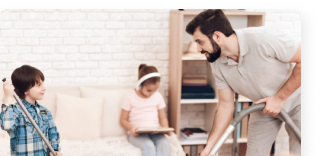
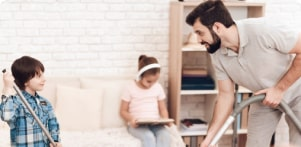
copleted styles for authpage

diff --git a/src/components/authForm/AuthForm.module.css b/src/components/authForm/AuthForm.module.css
@@ -71,131 +71,65 @@
   margin-right: 10px;
 }
 
-@media screen and (min-width: 1180px) {
+@media screen and (min-width: 580px) {
   .container {
+    padding-left: 40px;
+    padding-top: 72px;
+    padding-bottom: 306px;
     display: flex;
-    justify-content: flex-end;
-    align-items: flex-end;
-  }
-  .authTitle {
-    width: 404px;
-    font-weight: 600;
-    font-size: 28px;
-    text-align: start;
+    justify-content: center;
+    align-items: center;
   }
   .row {
-    /* width: 404px; */
-    margin-top: 72px;
-    margin-right: 48px;
+    width: 372px;
   }
-  .authText {
-    text-shadow: 0px 4px 4px rgba(0, 0, 0, 0.25);
+  .authTitle {
+    font-size: 28px;
+    line-height: 1.21;
   }
-
-  .authButton {
-    width: 154px;
-    height: 48px;
-    font-size: 12px;
-  }
-
   .authForm {
-    width: 404px;
-    margin-top: 32px;
+    width: 400px;
     padding: 40px;
     background: #ffffff;
 
     box-shadow: 4px 6px 15px rgba(0, 0, 0, 0.1);
     border-radius: 6px;
   }
+  .formInput {
+    width: 320px;
+    margin-bottom: 20px;
+  }
+  .authButton {
+    width: 154px;
+    height: 48px;
+    font-size: 12px;
+  }
 }
 
-/* .container {
-  display: flex;
-  justify-content: flex-end;
-  align-items: flex-end;
-  width: 100%;
+@media screen and (min-width: 1180px) {
+  .container {
+    display: flex;
+    justify-content: flex-end;
+    align-items: flex-end;
+    padding-bottom: 130px;
+  }
+  .authTitle {
+    font-weight: 600;
+    font-size: 30px;
+    line-height: 1.24;
+    text-align: start;
+
+    text-shadow: 0px 4px 4px rgba(0, 0, 0, 0.25);
+  }
+  .row {
+    width: 398px;
+    margin-right: 48px;
+  }
+  .authText {
+    text-shadow: 0px 4px 4px rgba(0, 0, 0, 0.25);
+  }
+
+  .authForm {
+    width: 404px;
+  }
 }
-
-.row {
-  width: 404px;
-  margin-top: 72px;
-  margin-right: 48px;
-}
-
-.authForm {
-  margin-top: 32px;
-  padding: 40px;
-  background: #ffffff;
-
-  box-shadow: 4px 6px 15px rgba(0, 0, 0, 0.1);
-  border-radius: 6px;
-}
-
-.authText {
-  font-family: Montserrat;
-
-  font-size: 12px;
-  line-height: 15px;
-  letter-spacing: 0.04em;
-
-  color: #858598;
-
-  text-shadow: 0px 4px 4px rgba(0, 0, 0, 0.25);
-  margin-bottom: 20px;
-}
-
-.googleBtn {
-  margin-bottom: 30px;
-}
-
-.formGroup {
-  display: flex;
-  flex-direction: column;
-}
-
-.formInput {
-  width: 320px;
-  margin-bottom: 20px;
-  padding: 12px 10px;
-  background-color: #f6f7fb;
-  border: none;
-  border-top: 2px solid rgba(133, 133, 152, 0.3);
-}
-
-.formLabel {
-  font-family: Montserrat;
-  font-style: normal;
-  font-weight: normal;
-  font-size: 12px;
-  line-height: 15px;
-
-  letter-spacing: 0.04em;
-
-  color: #858598;
-  margin-bottom: 10px;
-}
-
-.wrapperButton {
-  display: flex;
-}
-.authButton {
-  width: 154px;
-  height: 48px;
-
-  font-size: 12px;
-  line-height: 15px;
-  display: flex;
-  align-items: center;
-  text-align: center;
-  letter-spacing: 0.02em;
-
-  color: #fafafa;
-  background: #ffbc33;
-  border-radius: 6px;
-}
-
-.authButton:not(:last-child) {
-  margin-right: 12px;
-}
-.authTitle {
-} */

diff --git a/src/pages/auth/AuthPage.module.css b/src/pages/auth/AuthPage.module.css
@@ -1,4 +1,4 @@
-/* .container {
+.container {
   width: 100%;
   padding-bottom: 156px;
 
@@ -6,34 +6,51 @@
   background-repeat: no-repeat;
   background-size: contain;
   background-position: bottom;
-
-  @media screen and (min-device-pixel-ratio: 2),
-    screen and (min-resolution: 192dpi),
-    screen and (min-resolution: 2dppx) {
+}
+@media screen and (min-device-pixel-ratio: 2),
+  screen and (min-resolution: 192dpi),
+  screen and (min-resolution: 2dppx) {
+  .container {
     background-image: url(./images/bg_1_mobile@2x.jpg);
   }
-  @media screen and (min-width: 580px) {
-    background-image: url(./images/bg_1_mobile@2x.jpg);
+}
 
-    @media screen and (min-device-pixel-ratio: 2),
-      screen and (min-resolution: 192dpi),
-      screen and (min-resolution: 2dppx) {
-      background-image: url(./images/bg_1_mobile@2x.jpg);
-    }
-    @media screen and (min-width: 1180px) {
-      background-image: url(./images/bg_4_desktop@1x.png),
-        url(./images/bg_3_desktop@1x.png), url(./images/bg_2_desktop@1x.png),
-        url(./images/bg_1_desktop@1x.png);
-      background-repeat: no-repeat, no-repeat, no-repeat, no-repeat;
-      background-position: 270px 476px, 50px 348px, 270px 190px, 50px 20px;
-
-      @media screen and (min-device-pixel-ratio: 2),
-        screen and (min-resolution: 192dpi),
-        screen and (min-resolution: 2dppx) {
-        background-image: url(./images/bg_4_desktop@2x.png),
-          url(./images/bg_3_desktop@2x.png), url(./images/bg_2_desktop@2x.png),
-          url(./images/bg_1_desktop@2x.png);
-      }
-    }
+@media screen and (min-width: 580px) {
+  .container {
+    padding: 0;
+    background-image: url(./images/bg_2_tablet@1x.jpg),
+      url(./images/bg_3_tablet@1x.jpg), url(./images/bg_1_tablet@1x.jpg);
+    background-repeat: no-repeat, no-repeat, no-repeat;
+    background-position: 278px bottom, right bottom, 0 bottom;
+    background-size: auto, auto, auto;
   }
-} */
+}
+@media screen and (min-device-pixel-ratio: 2),
+  screen and (min-resolution: 192dpi),
+  screen and (min-resolution: 2dppx) {
+  .container {
+    background-image: url(./images/bg_2_tablet@1x.jpg),
+      url(./images/bg_3_tablet@1x.jpg), url(./images/bg_1_tablet@1x.jpg);
+  }
+}
+
+@media screen and (min-width: 1180px) {
+  .container {
+    background-image: url(./images/bg_4_desktop@1x.png),
+      url(./images/bg_3_desktop@1x.png), url(./images/bg_2_desktop@1x.png),
+      url(./images/bg_1_desktop@1x.png);
+    filter: drop-shadow(4px 6px 15px rgba(0, 0, 0, 0.1));
+    background-repeat: no-repeat, no-repeat, no-repeat, no-repeat;
+    background-position: 270px 476px, 50px 348px, 270px 190px, 50px 20px;
+    background-size: auto, auto, auto, auto;
+  }
+}
+@media screen and (min-device-pixel-ratio: 2),
+  screen and (min-resolution: 192dpi),
+  screen and (min-resolution: 2dppx) {
+  .container {
+    background-image: url(./images/bg_4_desktop@2x.png)
+        url(./images/bg_3_desktop@2x.png),
+      url(./images/bg_2_desktop@2x.png), url(./images/bg_1_desktop@2x.png);
+  }
+}
